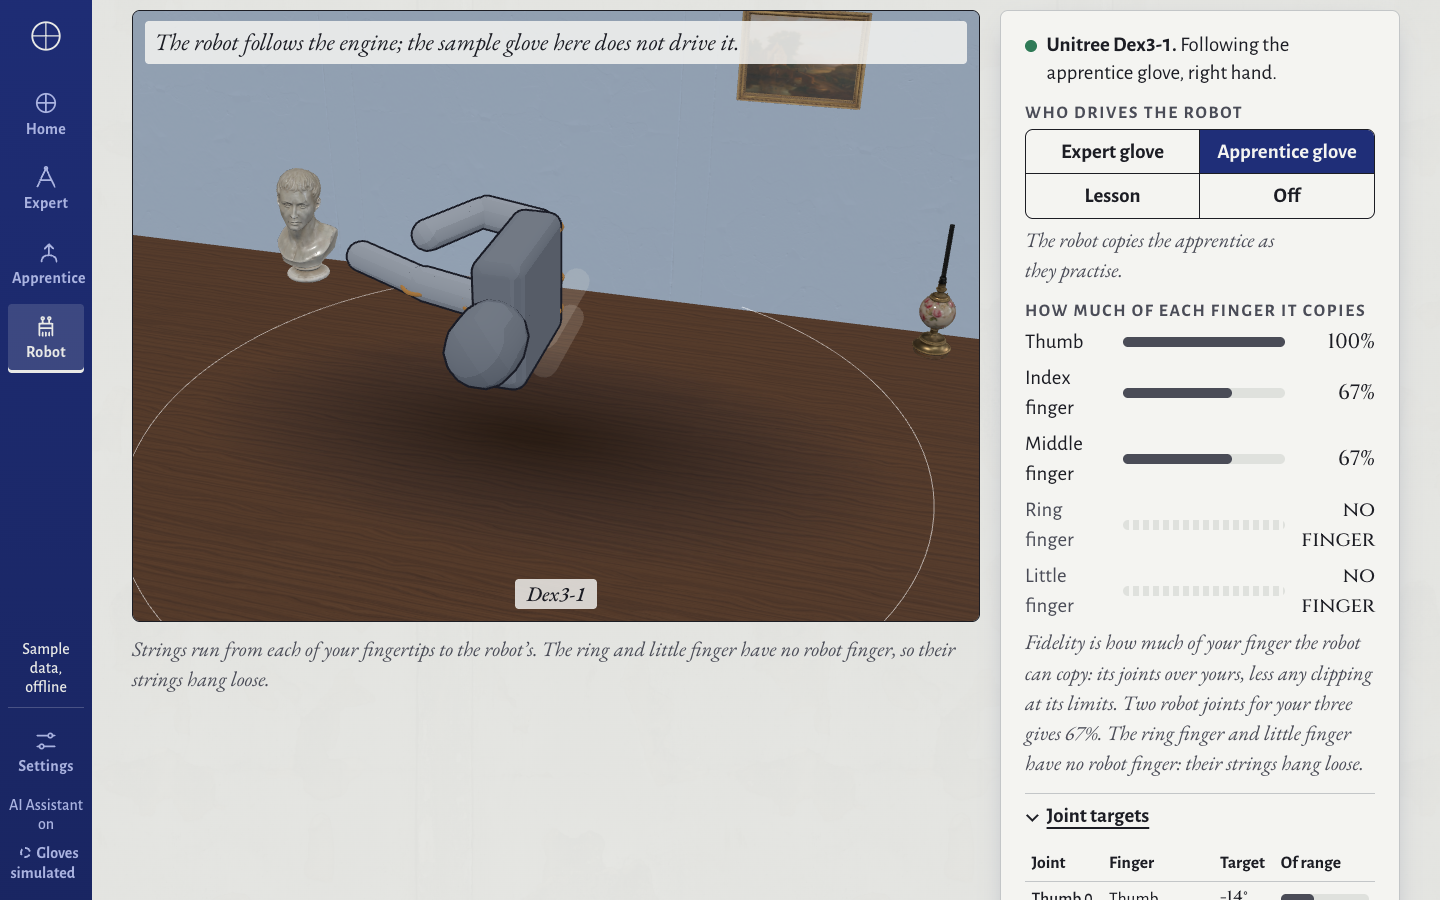
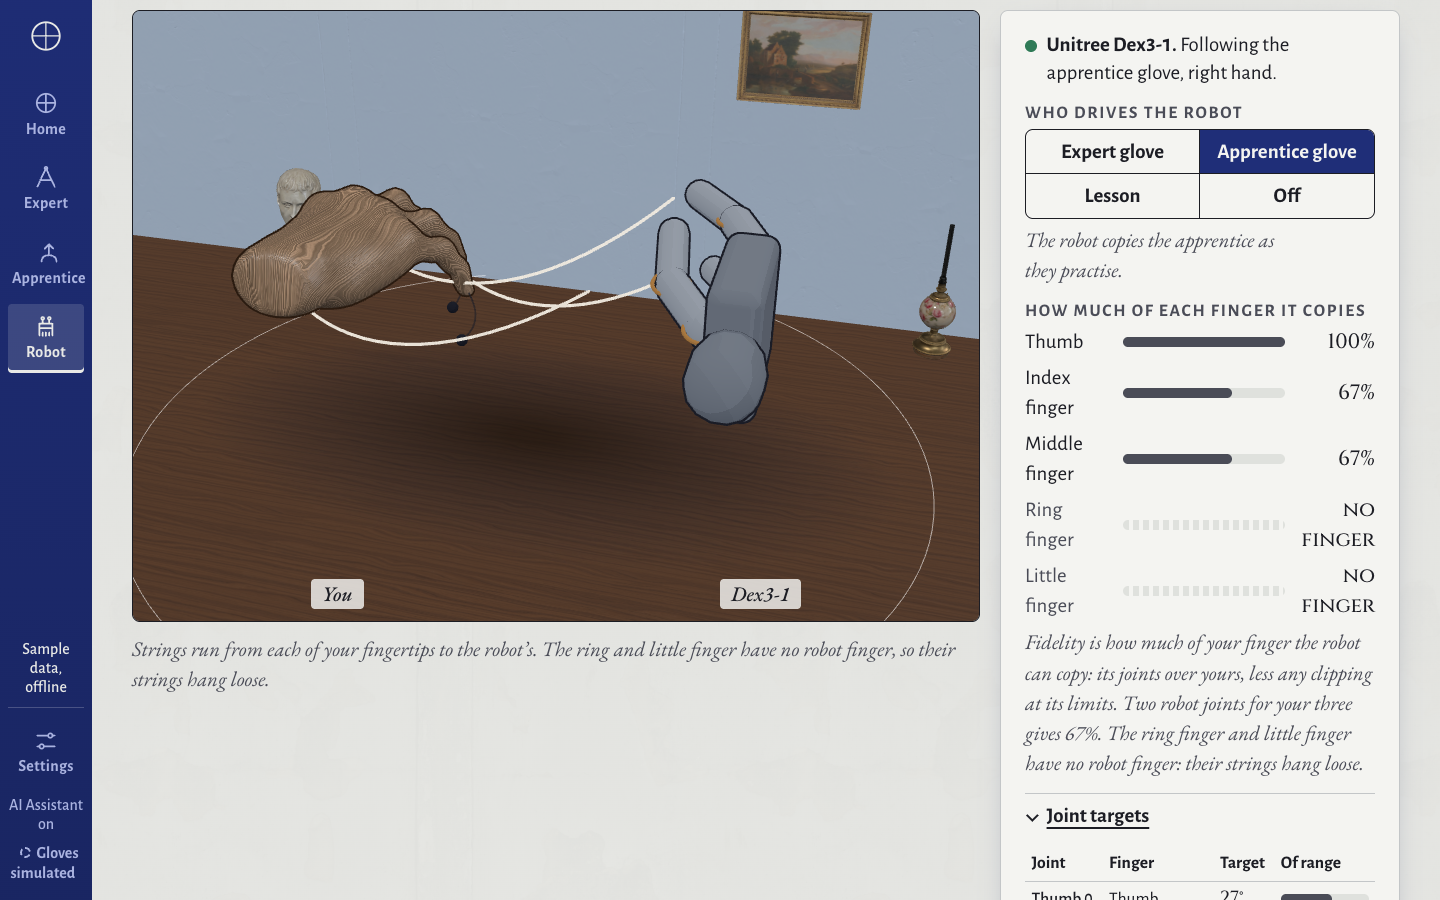
Robot twin draws the human hand from the core's own /ws/gloves when a real engine drives the robot, so hand and robot always match without the backend; tests; core screenshots from the worn_solver replay

diff --git a/frontend/src/features/shared/robot/RobotTwin.tsx b/frontend/src/features/shared/robot/RobotTwin.tsx
@@ -3,6 +3,7 @@ import { useThree } from '@react-three/fiber';
 import { DESIGN_ASPECT, TWIN_TARGET as TARGET, twinCamera } from './twinFraming';
 import type { GloveFrame, HandFrame, Side } from '../../../api/types';
 import type { RobotStreamHandle } from '../../../api/useRobotStream';
+import { useCoreGloves } from '../../../api/useCoreGloves';
 import { Hand, HandCanvas, RobotHand, RobotStrings, type HandHandle, type HandStyle, type RobotHandHandle } from '../../../three';
 
 export interface TwinHuman {
@@ -18,10 +19,11 @@ export interface TwinHuman {
 
 interface RobotTwinProps {
   robot: RobotStreamHandle;
-  /** The hand that drives the robot, drawn beside it with strings. Null draws the robot alone. */
+  /**
+   * The hand that drives the robot, drawn beside it with strings. Null draws the robot alone. When a real engine drives
+   * the robot, its own glove stream replaces `live` and `getFrame` here.
+   */
   human: TwinHuman | null;
-  /** The robot and the human come from different engines (sample glove, real robot): draw the robot alone and say so. */
-  decoupled?: boolean;
   className?: string;
   label?: string;
 }
@@ -74,11 +76,17 @@ function CameraTo({ position }: { position: [number, number, number] }) {
  * Geppetto and Pinocchio: the human hand on the left, the Dex3-1 twin on the right, a string from each human fingertip
  * to the robot's. The fingers the robot lacks (ring and little) hang their strings loose and show as chalk ghosts.
  */
-export function RobotTwin({ robot, human, decoupled = false, className, label }: RobotTwinProps) {
+export function RobotTwin({ robot, human: given, className, label }: RobotTwinProps) {
   const humanRef = useRef<HandHandle>(null);
   const robotRef = useRef<RobotHandHandle>(null);
-  const showHuman = human !== null && !decoupled;
-  const side: Side = robot.hand ?? human?.side ?? 'right';
+  const side: Side = robot.hand ?? given?.side ?? 'right';
+  // A real engine drives the robot: draw the human hand from that engine's own glove stream, so both hands always come
+  // from one place (the app's glove stream may be the in-browser sample while the robot is real). In lesson mode the
+  // engine plays its own lesson step and sends no human hand, so the robot stands alone.
+  const engineUrl = robot.status === 'open' && robot.hello && !robot.mock ? robot.url : null;
+  const coreLive = useCoreGloves(engineUrl);
+  const human: TwinHuman | null = !given ? null : !engineUrl ? given : robot.source === 'lesson' ? null : { ...given, side, live: coreLive, getFrame: undefined };
+  const showHuman = human !== null;
   const box = useRef<HTMLDivElement>(null);
   const camera = twinCamera(useAspect(box));
   return (
@@ -97,7 +105,6 @@ export function RobotTwin({ robot, human, decoupled = false, className, label }:
         {showHuman && human && <span className="rb-twin__cap">{human.label}</span>}
         <span className="rb-twin__cap rb-twin__cap--robot">Dex3-1</span>
       </div>
-      {decoupled && <p className="note rb-twin__note">The robot follows the engine; the sample glove here does not drive it.</p>}
     </div>
   );
 }

diff --git a/frontend/src/api/useCoreGloves.ts b/frontend/src/api/useCoreGloves.ts
@@ -1,0 +1,59 @@
+import { useEffect, useRef, type RefObject } from 'react';
+import type { GloveFrame } from './types';
+
+const RETRY_MS = 1000;
+
+/** The core's GloveFrame socket beside its robot socket: `ws://host:8765/ws/robot` gives `ws://host:8765/ws/gloves`. */
+export function coreGlovesUrl(robotUrl: string): string | null {
+  return /\/ws\/robot(\?.*)?$/.test(robotUrl) ? robotUrl.replace(/\/ws\/robot(\?.*)?$/, '/ws/gloves') : null;
+}
+
+/** A GloveFrame, or null for anything else. */
+export function parseGloveFrame(raw: string): GloveFrame | null {
+  try {
+    const m = JSON.parse(raw) as Partial<GloveFrame>;
+    return m && Array.isArray(m.hands) && typeof m.t === 'number' ? (m as GloveFrame) : null;
+  } catch {
+    return null;
+  }
+}
+
+/**
+ * The live hands from the same core that drives the robot, read from its `/ws/gloves` (core/compat.py, the CONTRACT
+ * GloveFrame shape). The robot twin draws its human hand from here, so the hand and the robot always come from one
+ * engine, with or without the backend on port 8000. Frames land in a ref; nothing re-renders. Pass null to stay closed.
+ */
+export function useCoreGloves(robotUrl: string | null): RefObject<GloveFrame | null> {
+  const latest = useRef<GloveFrame | null>(null);
+  const url = robotUrl ? coreGlovesUrl(robotUrl) : null;
+  useEffect(() => {
+    if (!url) return;
+    let ws: WebSocket | null = null;
+    let timer: number | null = null;
+    let alive = true;
+    const open = () => {
+      ws = new WebSocket(url);
+      ws.onmessage = (ev) => {
+        if (typeof ev.data !== 'string') return;
+        const f = parseGloveFrame(ev.data);
+        if (f) latest.current = f;
+      };
+      ws.onerror = () => ws?.close();
+      ws.onclose = () => {
+        latest.current = null;
+        if (alive) timer = window.setTimeout(open, RETRY_MS);
+      };
+    };
+    open();
+    return () => {
+      alive = false;
+      if (timer !== null) window.clearTimeout(timer);
+      if (ws) {
+        ws.onclose = null;
+        ws.close();
+      }
+      latest.current = null;
+    };
+  }, [url]);
+  return latest;
+}

diff --git a/frontend/tests/robot.test.ts b/frontend/tests/robot.test.ts
@@ -6,6 +6,7 @@ import { handWithRole, parseRobotIncoming, shortJointName, SOURCE_OPTIONS, waiti
 import { angleFeatures, autoSign, describeRobot, limitsOf, pickHand, retargetAngles, retargetHand, robotMessage } from '../src/mock/robot';
 import { fingerOfName, forwardKinematics, linkShapes, pointInRoot, restPose, URDF_TO_SCENE, urdfToHandMatrix } from '../src/three/robot/kinematics';
 import { movableJoints, parseUrdf } from '../src/three/robot/urdf';
+import { coreGlovesUrl, parseGloveFrame } from '../src/api/useCoreGloves';
 import { MAX_PULL, TWIN_CAMERA, TWIN_TARGET, twinCamera } from '../src/features/shared/robot/twinFraming';
 import { DEG, handWith } from './helpers';
 
@@ -260,6 +261,20 @@ describe('robot wire helpers', () => {
     expect(waitingLine('lesson', session)).toMatch(/lesson step/);
     expect(waitingLine('lesson', { lesson_id: null })).toMatch(/No lesson is loaded/);
     expect(waitingLine('off', null)).toBe('The robot rests.');
+  });
+});
+
+describe('the core glove socket beside the robot socket', () => {
+  it('swaps /ws/robot for /ws/gloves on the same host and port', () => {
+    expect(coreGlovesUrl('ws://localhost:8765/ws/robot')).toBe('ws://localhost:8765/ws/gloves');
+    expect(coreGlovesUrl('wss://lab.local/ws/robot?x=1')).toBe('wss://lab.local/ws/gloves');
+    expect(coreGlovesUrl('ws://localhost:8765/ws')).toBeNull();
+  });
+
+  it('reads GloveFrames and drops anything else', () => {
+    expect(parseGloveFrame('{"t":1.5,"source":"glove","hands":[]}')?.t).toBe(1.5);
+    expect(parseGloveFrame('{"type":"hello"}')).toBeNull();
+    expect(parseGloveFrame('not json')).toBeNull();
   });
 });
 

diff --git a/frontend/src/features/shared/robot/RobotScreen.tsx b/frontend/src/features/shared/robot/RobotScreen.tsx
@@ -5,12 +5,6 @@ import { RobotPanel } from './RobotPanel';
 import { RobotTwin, type TwinHuman } from './RobotTwin';
 import './robot.css';
 
-/** The robot and the glove stream come from different places: the sample glove runs in this browser, the robot in the engine. */
-function isDecoupled(mockRobot: boolean): boolean {
-  const mockApp = typeof window !== 'undefined' && window.__apprenticeMock === true;
-  return mockApp && !mockRobot;
-}
-
 /**
  * /robot: the teleoperation view. The glove drives a Unitree Dex3-1 twin, with the source switch (expert, apprentice,
  * lesson, off), the per-finger fidelity and the joint targets, read from the engine's /ws/robot.
@@ -30,7 +24,7 @@ export default function RobotScreen() {
       <PageHeader title="Robot hand" context="Your glove drives a Unitree Dex3-1 twin. Choose who drives it and watch how closely it follows." />
       <div className="rb-screen__grid">
         <section className="rb-screen__stage" aria-label="Robot twin">
-          <RobotTwin robot={robot} human={human} decoupled={isDecoupled(robot.mock)} className="rb-twin--tall" />
+          <RobotTwin robot={robot} human={human} className="rb-twin--tall" />
           <p className="note rb-screen__cap">
             {robot.status === 'open' && robot.hello
               ? 'Strings run from each of your fingertips to the robot’s. The ring and little finger have no robot finger, so their strings hang loose.'

diff --git a/frontend/src/features/apprentice/training/TrainingRoom.tsx b/frontend/src/features/apprentice/training/TrainingRoom.tsx
@@ -183,7 +183,6 @@ function Room({ lesson, lessonId, lessonTitle, step, index, total, hasTest, dev,
     getFrame: () => (robotSource === 'lesson' ? coach.live.current.master : coach.live.current.learner),
     label: robotSource === 'lesson' ? 'The lesson' : robotSource === 'master' ? 'The expert' : 'You',
   };
-  const robotDecoupled = typeof window !== 'undefined' && window.__apprenticeMock === true && !robot.mock;
 
   useEffect(() => {
     if (step.motion) gloves.setMotion(step.motion);
@@ -371,7 +370,7 @@ function Room({ lesson, lessonId, lessonTitle, step, index, total, hasTest, dev,
             </div>
             {robotPane && (
               <div className="ap-stage__canvas ap-stage__canvas--robot">
-                <RobotTwin robot={robot} human={robotHuman} decoupled={robotDecoupled} label="The Dex3-1 robot hand beside the hand that drives it, with a string to each fingertip" />
+                <RobotTwin robot={robot} human={robotHuman} label="The Dex3-1 robot hand beside the hand that drives it, with a string to each fingertip" />
               </div>
             )}
           </div>

diff --git a/frontend/src/features/shared/robot/RobotStudioPane.tsx b/frontend/src/features/shared/robot/RobotStudioPane.tsx
@@ -17,11 +17,10 @@ export function RobotStudioPane({ glove, side }: RobotStudioPaneProps) {
   const robot = useRobotStream(on);
   if (!on) return null;
   const state = robotStateLine(robot);
-  const mockApp = typeof window !== 'undefined' && window.__apprenticeMock === true;
   return (
     <Disclosure summary={`Robot hand: ${state.text}`} className="rb-studio" defaultOpen={robot.status === 'open'}>
       <div className="rb-studio__grid">
-        <RobotTwin robot={robot} human={{ side: robot.hand ?? side, style: 'chalk', live: glove.latest, label: 'Your glove' }} decoupled={mockApp && !robot.mock} className="rb-twin--studio" />
+        <RobotTwin robot={robot} human={{ side: robot.hand ?? side, style: 'chalk', live: glove.latest, label: 'Your glove' }} className="rb-twin--studio" />
         <RobotPanel robot={robot} compact />
       </div>
     </Disclosure>

diff --git a/frontend/src/features/shared/robot/robot.css b/frontend/src/features/shared/robot/robot.css
@@ -35,18 +35,6 @@
   padding: 0.15rem 0.7rem;
   border-radius: var(--radius-s);
 }
-.rb-twin__note {
-  position: absolute;
-  top: 10px;
-  left: 12px;
-  right: 12px;
-  margin: 0;
-  pointer-events: none;
-  color: var(--text);
-  background: color-mix(in srgb, var(--surface) 85%, transparent);
-  padding: 0.25rem 0.6rem;
-  border-radius: var(--radius-s);
-}
 
 /* ---------- Panel ---------- */
 .rb-panel {
